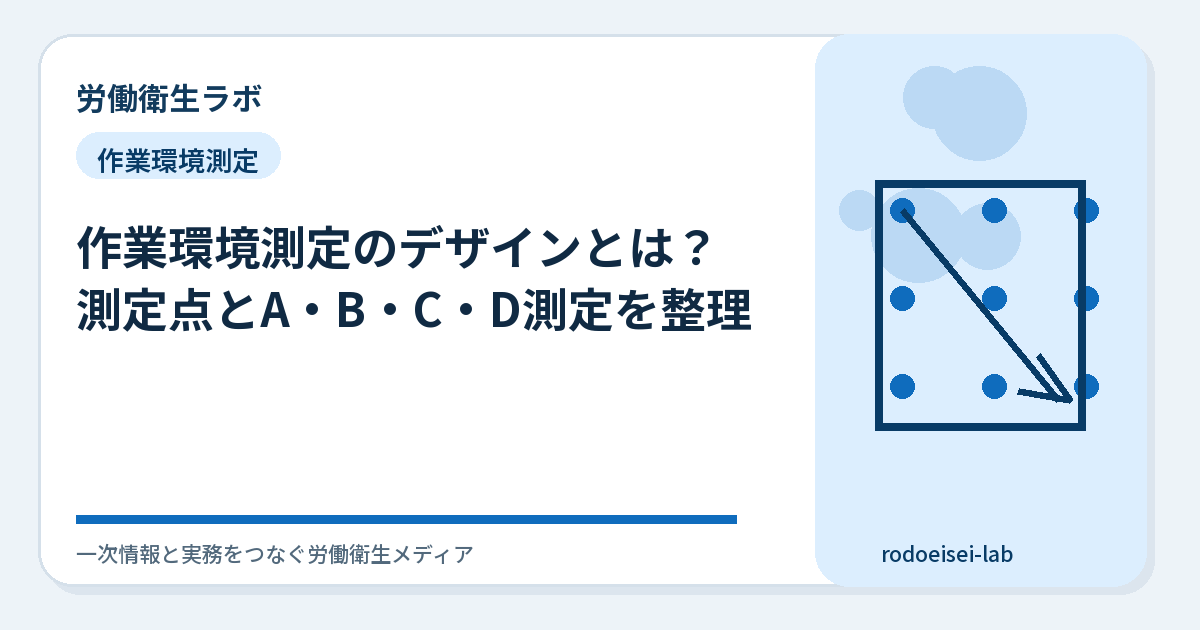
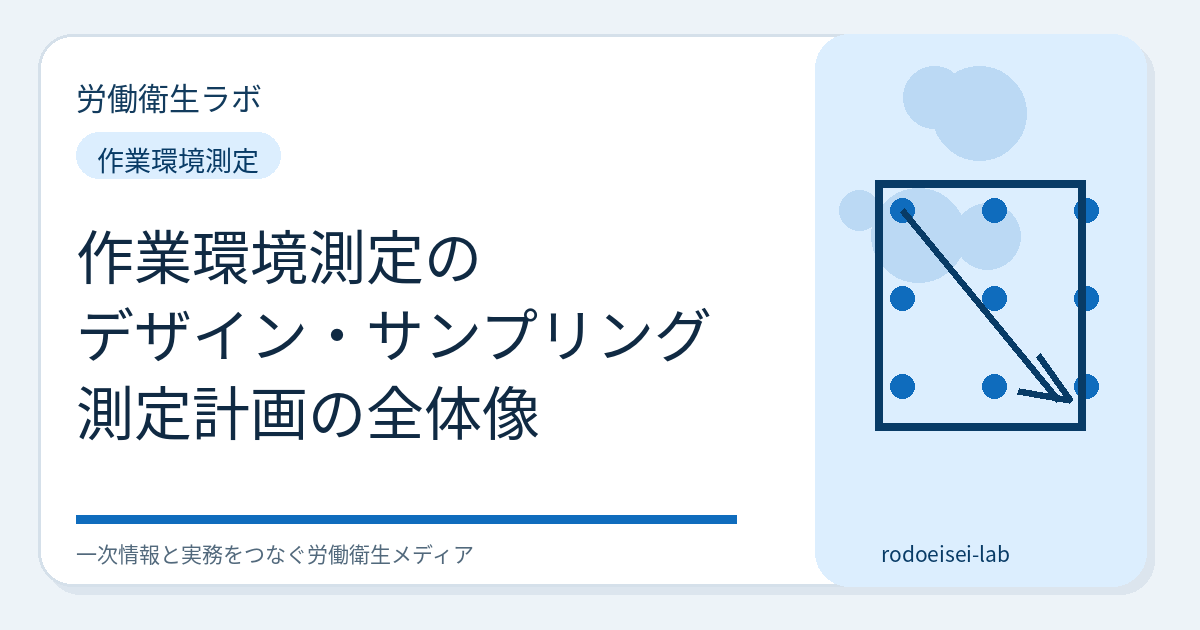
デザイン・サンプリング記事の役割を整理 (#174)

diff --git a/scripts/ci/check_generated_metadata.py b/scripts/ci/check_generated_metadata.py
@@ -158,6 +158,7 @@ def main() -> int:
         ],
     )
     article_images: dict[Path, str] = {}
+    article_titles: dict[Path, str] = {}
     for article_path in site.rglob("index.html"):
         article_html = article_path.read_text(encoding="utf-8")
         feedback_section = re.search(
@@ -173,6 +174,10 @@ def main() -> int:
         structured_data = article_structured_data(article_html)
         if structured_data is None or '<meta name="robots" content="noindex, nofollow">' in article_html:
             continue
+        headline = structured_data.get("headline")
+        if not isinstance(headline, str) or not headline.strip():
+            raise SystemExit(f"{article_path} must include a non-empty Article headline")
+        article_titles[article_path] = headline.strip()
         og_image = meta_content(article_html, "property", "og:image", article_path)
         twitter_image = meta_content(article_html, "name", "twitter:image", article_path)
         og_image_alt = meta_content(article_html, "property", "og:image:alt", article_path)
@@ -208,6 +213,13 @@ def main() -> int:
             if list(article_images.values()).count(image) > 1
         )
         raise SystemExit(f"Public articles must not share OGP images: {duplicates}")
+    duplicate_titles = sorted(
+        title
+        for title in set(article_titles.values())
+        if list(article_titles.values()).count(title) > 1
+    )
+    if duplicate_titles:
+        raise SystemExit(f"Public articles must not share the same title: {duplicate_titles}")
     require(site / "videos" / "index.html", ['"@type": "WebPage"', "-l2ISaUncV4"])
     public_routes_without_placeholders = (
         "guides",

diff --git a/scripts/assets/generate_og_images.py b/scripts/assets/generate_og_images.py
@@ -84,8 +84,9 @@ TITLE_LINES = {
         "化学防護手袋の選び方・使い方",
     ],
     "work-environment-measurement-design-sampling": [
-        "作業環境測定のデザインとは？",
-        "測定点とA・B・C・D測定を整理",
+        "作業環境測定の",
+        "デザイン・サンプリング",
+        "測定計画の全体像",
     ],
     "work-environment-measurement-design": [
         "作業環境測定のデザインとは？",

diff --git a/_guides/work-environment-measurement-design-sampling.md b/_guides/work-environment-measurement-design-sampling.md
@@ -1,7 +1,8 @@
 ---
 layout: article
-title: 作業環境測定のデザインとは？測定点とA・B・C・D測定を整理
-description: 作業環境測定におけるデザインとサンプリングについて、事前調査、単位作業場所、測定点、A測定・B測定、個人サンプリング法によるC測定・D測定の違いを初心者向けに解説します。
+title: 作業環境測定のデザイン・サンプリング｜測定計画の全体像
+description: 作業環境測定のデザインとサンプリングを、事前調査、単位作業場所、測定点、A・B・C・D測定、採取条件のつながりから整理します。
+lead: 動画とあわせて、測定計画から試料採取までの全体像をつかむための総合解説です。
 og_image: /assets/images/og/articles/work-environment-measurement-design-sampling.png
 article_type: guide
 category: 作業環境測定
@@ -30,9 +31,15 @@ next_actions:
   - 発散源、気流、作業者の位置と時間変化を現場で記録する
   - 単位作業場所と測定方式を選んだ根拠を測定計画へ残す
 related_links:
+  - title: デザインを詳しく読む
+    url: /guides/work-environment-measurement-design/
+    group: next
+  - title: サンプリングを詳しく読む
+    url: /guides/work-environment-measurement-sampling/
+    group: next
   - title: 作業環境測定の超入門
     url: /guides/work-env-measurement-intro/
-    group: next
+    group: previous
   - title: 個人ばく露測定の基礎
     url: /guides/personal-exposure-measurement-basics/
     group: next
@@ -63,6 +70,10 @@ youtube_videos:
 作業環境測定のデザインは、図面へ格子を描くだけではありません。**対象作業と有害因子を確認し、単位作業場所を設定し、いつ・どこで・どの方法により測るかを決め、その理由を記録する工程**です。作業環境測定は、デザイン、サンプリング、分析（解析を含む）から成ります。
 
 A・B測定とC・D測定にはそれぞれ適用条件があります。現場の都合だけで相互に置き換えず、対象物質・作業に適用される作業環境測定基準と評価基準を確認します。
+
+## このページの位置づけ
+
+このページは、デザインとサンプリングのつながりを一つの流れでつかむ、動画連動の総合解説です。測定点・AからD測定を詳しく確認したい場合は[デザインの記事]({{ '/guides/work-environment-measurement-design/' | relative_url }})、捕集方法や採取条件を詳しく確認したい場合は[サンプリングの記事]({{ '/guides/work-environment-measurement-sampling/' | relative_url }})へ進んでください。
 
 ## 作業環境測定におけるデザインとは {#design}
 

diff --git a/_guides/work-env-measurement-intro.md b/_guides/work-env-measurement-intro.md
@@ -128,7 +128,7 @@ youtube_videos:
 - 気中有害物質が広がると考えられる範囲
 - 換気設備の位置と稼働状況
 
-単位作業場所の設定や、測定点数・間隔などの具体的な要件は、対象と測定方法に応じて作業環境測定基準を確認する必要があります。詳しい設計方法は、[作業環境測定のデザインとサンプリング]({{ "/guides/work-environment-measurement-design-sampling/" | relative_url }})で確認できます。
+単位作業場所の設定や、測定点数・間隔などの具体的な要件は、対象と測定方法に応じて作業環境測定基準を確認する必要があります。詳しい設計方法は、[作業環境測定のデザイン]({{ "/guides/work-environment-measurement-design/" | relative_url }})で確認できます。
 
 生成AIは確認項目や架空データの計算練習には使えますが、測定点や管理区分を決める根拠にはできません。[測定データとAI出力を人が検証する手順]({{ '/guides/ai-use-occupational-health-basics/' | relative_url }})も確認してください。
 
